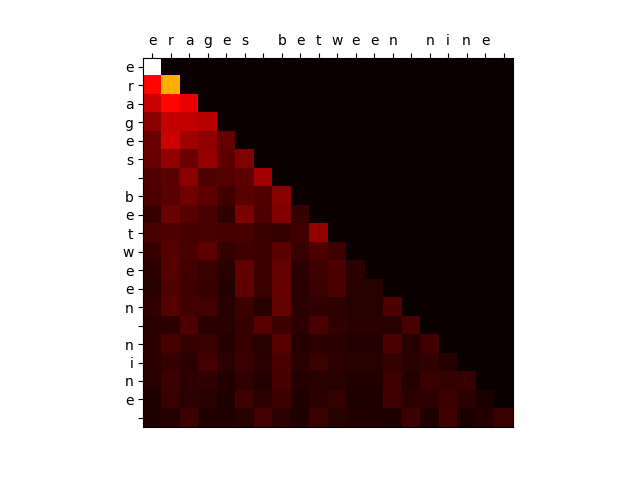
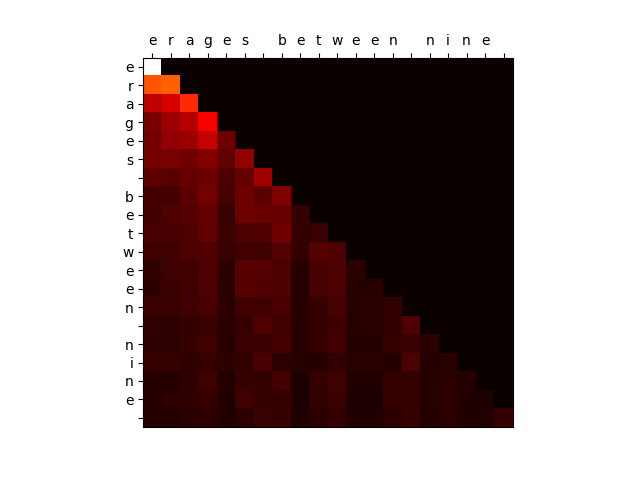
transformer-lm

diff --git a/HW-2/hw2-distrib/transformer_lm.py b/HW-2/hw2-distrib/transformer_lm.py
@@ -1,7 +1,12 @@
 # models.py
 
 import numpy as np
-
+import torch.nn as nn
+from torch import optim
+import random
+import time
+import torch.nn.functional as F
+import torch
 
 class LanguageModel(object):
 
@@ -33,6 +38,43 @@ class LanguageModel(object):
         raise Exception("Only implemented in subclasses")
 
 
+
+
+
+# Implementation of positional encoding that you can use in your network
+class PositionalEncoding(nn.Module):
+    def __init__(self, d_model: int, num_positions: int=20, batched=False):
+        """
+        :param d_model: dimensionality of the embedding layer to your model; since the position encodings are being
+        added to character encodings, these need to match (and will match the dimension of the subsequent Transformer
+        layer inputs/outputs)
+        :param num_positions: the number of positions that need to be encoded; the maximum sequence length this
+        module will see
+        :param batched: True if you are using batching, False otherwise
+        """
+        super().__init__()
+        # Dict size
+        self.emb = nn.Embedding(num_positions, d_model)
+        self.batched = batched
+
+    def forward(self, x):
+        """
+        :param x: If using batching, should be [batch size, seq len, embedding dim]. Otherwise, [seq len, embedding dim]
+        :return: a tensor of the same size with positional embeddings added in
+        """
+        # Second-to-last dimension will always be sequence length
+        input_size = x.shape[-2]
+        indices_to_embed = torch.tensor(np.asarray(range(0, input_size))).type(torch.LongTensor)
+        if self.batched:
+            # Use unsqueeze to form a [1, seq len, embedding dim] tensor -- broadcasting will ensure that this
+            # gets added correctly across the batch
+            emb_unsq = self.emb(indices_to_embed).unsqueeze(0)
+            return x + emb_unsq
+        else:
+            return x + self.emb(indices_to_embed)
+
+
+
 class UniformLanguageModel(LanguageModel):
     def __init__(self, voc_size):
         self.voc_size = voc_size
@@ -43,16 +85,129 @@ class UniformLanguageModel(LanguageModel):
     def get_log_prob_sequence(self, next_chars, context):
         return np.log(1.0/self.voc_size) * len(next_chars)
 
+class TransformerLM(nn.Module):
+    def __init__(self, vocab_index, num_positions = 20, num_classess = 27, num_layers = 1, d_model = 32, d_internal = 64,
+                 nhead=4,
+                 dim_feedforward=128,
+                 dropout=0.1,):
+
+        super().__init__()
+
+        self.vocab_index = vocab_index
+        self.num_positions = num_positions
+        self.num_classess = num_classess
+        self.num_layers = num_layers
+        self.d_model = d_model
+        self.d_internal = d_internal
+
+        #character embedding
+        self.tok_embedding = nn.Embedding(27, d_model)
+
+        #positional encoding 
+
+        self.pos_embedding = nn.Embedding(num_positions, d_model)
+
+        #create transformer layers
+        encoder = nn.TransformerEncoderLayer(
+            d_model = d_model,
+            nhead = nhead,
+            dim_feedforward = dim_feedforward,
+            batch_first = True
+        )
+
+        self.encoder = nn.TransformerEncoder(encoder, num_layers=num_layers)
+
+        decoder_layer =  nn.TransformerDecoderLayer(
+            d_model=d_model, nhead=nhead, dim_feedforward=dim_feedforward,
+            dropout=dropout, batch_first=True
+        )
+        self.decoder = nn.TransformerDecoder(decoder_layer, num_layers = num_layers)
+
+        #final classifier at the position
+        self.classifier = nn.Linear(d_model, num_classess)
+
+    def causal_mask(self, N, device):
+        return torch.triu(torch.ones(N, N, dtype=torch.bool, device=device), diagonal=1)
+
+
+    def forward(self, x):
+
+        # device = x.device
+
+        # N = self.num_positions
+
+        #maybe we can pad if size is less than 20
+        x_idx = x
+        if not torch.is_tensor(x_idx):
+            x_idx = torch.tensor(x_idx, dtype=torch.long)
+        x_idx = x_idx.long()
+        device = x_idx.device
+
+        # pad/truncate to num_positions
+        Nmax = self.num_positions
+        if x_idx.numel() < Nmax:
+            pad_id = self.vocab_index.index_of(' ') if hasattr(self.vocab_index, "index_of") else (self.num_classes - 1)
+            pad = torch.full((Nmax - x_idx.numel(),), pad_id, dtype=torch.long, device=device)
+            x_idx = torch.cat([x_idx, pad], dim=0)
+        elif x_idx.numel() > Nmax:
+            x_idx = x_idx[:Nmax]
+
+        N = x_idx.size(0)
+
+        # add a fake batch dim of 1: (1, N)
+        x_idx_b = x_idx.unsqueeze(0)
+
+        pos_ids = torch.arange(N, device=device).unsqueeze(0)  # (1, N)
+
+        src = self.tok_embedding(x_idx_b) + self.pos_embedding(pos_ids)  # (1, N, D)
+        tgt = src
+
+        causal = self.causal_mask(N, device=device)
+
+        # make encoder causal too to avoid "future leakage" into memory
+        memory = self.encoder(src, mask=causal)                           # (1, N, D)
+        out = self.decoder(tgt, memory, tgt_mask=causal, memory_mask=causal)  # (1, N, D)
+
+        logits = self.classifier(out)                 # (1, N, V)
+        log_probs = F.log_softmax(logits, dim=-1)     # (1, N, V)
+
+        return log_probs.squeeze(0) 
 
 class NeuralLanguageModel(LanguageModel):
-    def __init__(self):
-        raise Exception("Implement me")
+    def __init__(self, model: TransformerLM, vocab_index, num_positions: int = 20):
+        self.model = model,
+        self.vocab_index = vocab_index,
+        self.num_positions = num_positions
+        self.model.eval()
 
+    def _context_to_tensor(self, context: str) -> torch.Tensor:
+        # take last num_positions chars; left-pad with spaces if too short
+        context = context[-self.num_positions:]
+        if len(context) < self.num_positions:
+            context = (" " * (self.num_positions - len(context))) + context
+
+        idx = [self.vocab_index.index_of(c) for c in context]
+        x = torch.tensor(idx, dtype=torch.long)
+
+        # put on same device as model
+        device = next(self.model.parameters()).device
+        return x.to(device)
+    
     def get_next_char_log_probs(self, context):
-        raise Exception("Implement me")
+        x = self._context_to_tensor(context)          # (20,)
+        log_probs = self.model(x)                     # (20, 27)
+        last = log_probs[-1]                          # (27,)
+        return last.detach().cpu().numpy()
+
 
     def get_log_prob_sequence(self, next_chars, context):
-        raise Exception("Implement me")
+        
+        for ch in next_chars:
+            lp = self.get_next_char_log_probs(context)
+            total += float(lp[self.vocab_index.index_of(ch)])
+            context = context + ch
+        return total
+
 
 
 def train_lm(args, train_text, dev_text, vocab_index):
@@ -63,4 +218,59 @@ def train_lm(args, train_text, dev_text, vocab_index):
     :param vocab_index: an Indexer of the character vocabulary (27 characters)
     :return: a NeuralLanguageModel instance trained on the given data
     """
-    raise Exception("Implement me")
+
+    model = TransformerLM(
+                vocab_index, 
+                num_positions = 20, 
+                num_classess = 27,
+                num_layers = 1,
+                d_model = 32,
+                d_internal = 64,
+                nhead=4,
+                dim_feedforward=128,
+                dropout=0.1
+            )
+
+    device = torch.device("cuda" if torch.cuda.is_available() else "cpu")
+    model.to(device)
+
+    model.zero_grad()
+    optimizer = optim.Adam(model.parameters(), lr = 1e-4)
+
+    num_epochs = 10
+    start = time.time()
+
+    for epoch in range(0, num_epochs):
+        loss_this_epoch = 0.0
+        random.seed(epoch)
+        
+        loss_function = nn.NLLLoss()
+
+        for i in range(0, len(train_text) - 21):
+            optimizer.zero_grad()
+
+            x_str = train_text[i : i+20]
+            x_indexed = [vocab_index.index_of(c) for c in x_str]   # list of ints length 20
+            x_tensor = torch.tensor(x_indexed, dtype=torch.long)
+
+            y_str = train_text[i+1 : i+21]
+            y_indexed = [vocab_index.index_of(c) for c in y_str]
+            y_tensor = torch.tensor(y_indexed, dtype=torch.long)   # (20,)
+            
+            log_probability = model(x_tensor) # we need to send here first 20 letters 
+
+            # compare the output with 20th letter prediction and the calculate the loss
+            loss = loss_function(log_probability, y_tensor)
+
+            
+
+            loss.backward()
+            optimizer.step()
+            loss_this_epoch += loss.item()
+
+        print(f"epoch {epoch}: loss={loss_this_epoch:.4f}")
+
+    end = time.time()
+    print(f"Total time: {end - start:.3f} seconds")
+
+    return NeuralLanguageModel(model, vocab_index, num_positions=20)

diff --git a/HW-2/hw2-distrib/transformer.py b/HW-2/hw2-distrib/transformer.py
@@ -256,7 +256,7 @@ def train_classifier(args, train, dev):
     for t in range(0, num_epochs):
         loss_this_epoch = 0.0
         random.seed(t) 
-        # You can use batching if you'd like
+
         ex_idxs = [i for i in range(0, len(train))]
         random.shuffle(ex_idxs)
         loss_fcn = nn.NLLLoss()
@@ -266,7 +266,8 @@ def train_classifier(args, train, dev):
             optimizer.zero_grad()
             log_probability, attn = model(train[ex_idx].input_tensor)
             # print('ouput from the model', log_probability, attn)
-
+            print(log_probability.shape)
+            
             actual_ouput = train[ex_idx].output_tensor.long()
 
             loss = loss_fcn(log_probability, actual_ouput) # TODO: Run forward and compute loss
@@ -275,7 +276,7 @@ def train_classifier(args, train, dev):
             optimizer.step()
             loss_this_epoch += loss.item()
         print(f"epoch {t}: loss={loss_this_epoch:.4f}")
-        end = time.time()
+    end = time.time()
     print(f"Total time: {end - start:.3f} seconds")
 
     model.eval()
